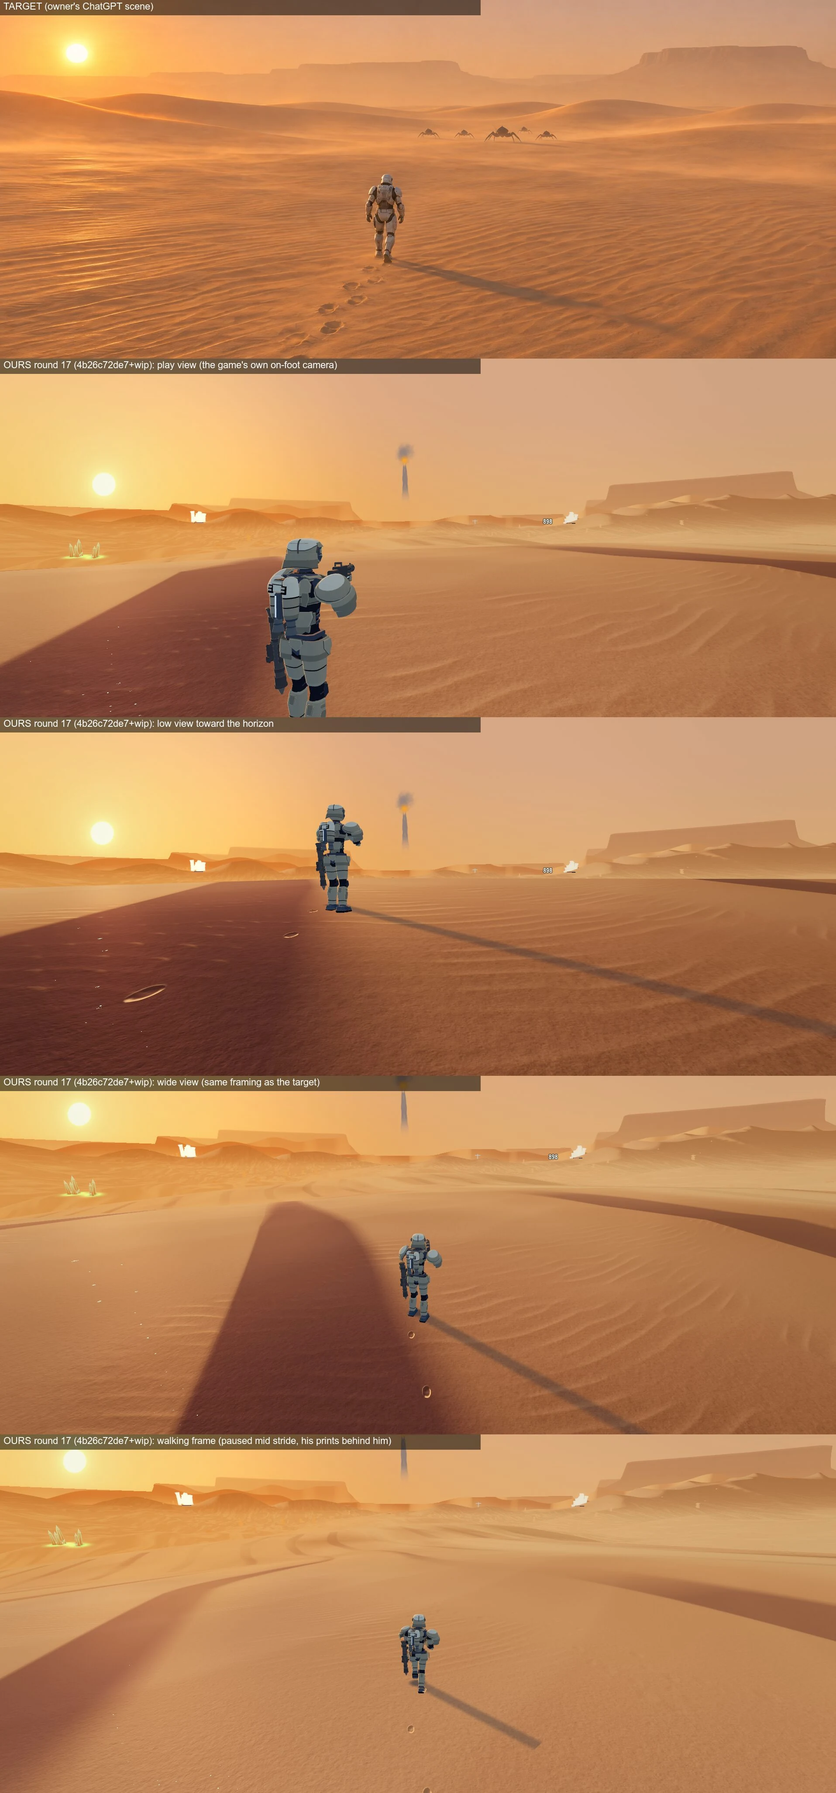
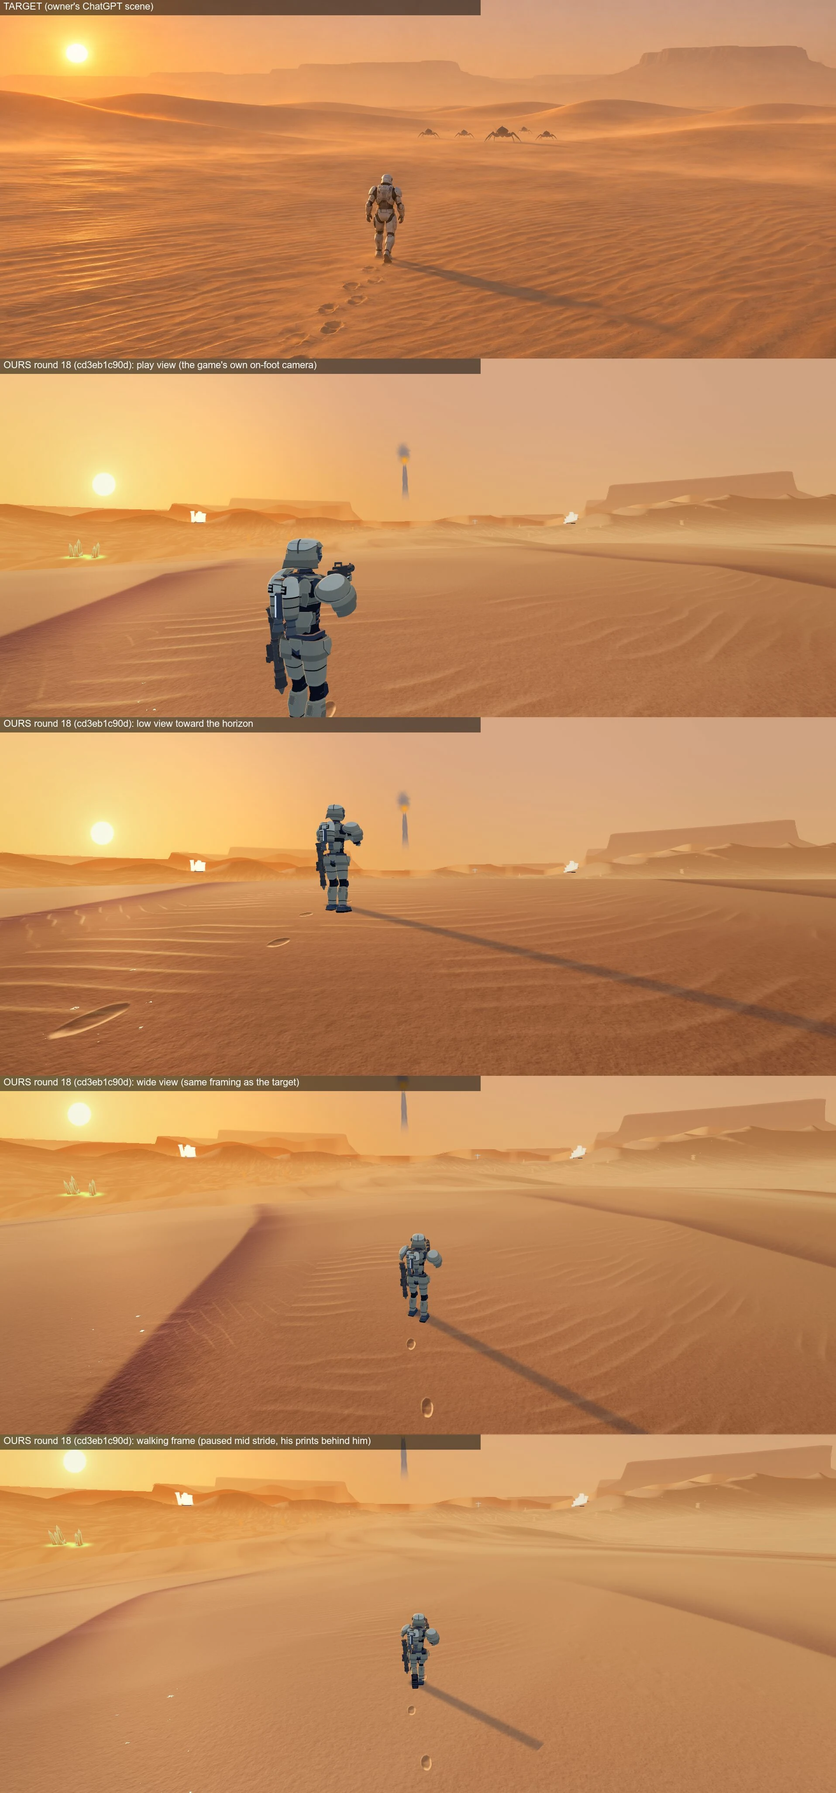
review page v194: Steel Tide: to review

diff --git a/d/steel-tide-clips-bb00109a/index.html b/d/steel-tide-clips-bb00109a/index.html
@@ -4,8 +4,8 @@
 <style>body{margin:0;background:#0d1117;color:#e6edf3;font:16px/1.5 -apple-system,system-ui,sans-serif}main{max-width:900px;margin:0 auto;padding:16px}h1{font-size:20px;margin:8px 0 4px}h2{font-size:17px;margin:34px 0 6px}p{margin:4px 0 10px;color:#9da7b3;font-size:14px}video,img{width:100%;height:auto;background:#000;border-radius:6px;display:block;margin-top:6px}a.b{display:inline-block;margin:8px 8px 0 0;padding:10px 14px;border:1px solid #3d444d;border-radius:6px;color:#e6edf3;text-decoration:none;font-size:14px}.t{font-size:12px;font-weight:400;color:#0d1117;background:#9da7b3;border-radius:10px;padding:2px 8px;margin-left:6px;vertical-align:middle}p.d{color:#7cb7ff;font-size:13px;margin:0 0 6px}nav small{color:#9da7b3;margin-left:6px}p b{color:#e6edf3}nav a{display:block;padding:7px 0;color:#7cb7ff;text-decoration:none;font-size:14px;border-bottom:1px solid #21262d}a.z{display:block;cursor:zoom-in}p.h{font-size:12px;margin:2px 0 8px}#lb{position:fixed;inset:0;background:#000;z-index:9;overflow:auto;display:none;cursor:zoom-in}#lb.on{display:block}#lb img{width:100%;height:100%;object-fit:contain;margin:0;border-radius:0;background:#000}#lb.big{cursor:zoom-out}#lb.big img{width:auto;height:auto;max-width:none;object-fit:none}#lbx{position:fixed;top:10px;right:14px;z-index:10;display:none;font:600 15px system-ui;color:#fff;background:#21262d;border:1px solid #3d444d;border-radius:6px;padding:8px 12px;cursor:pointer}#lb.on+#lbx{display:block}</style></head>
 <body><main>
 <h1>Steel Tide: to review</h1>
-<p>Version 193, 11-21 11:28 AM. 11-21 morning: everything rendered overnight that you had not seen: live sand, the sand work in progress, Petrel rounds 2 and 3, the hand cannons. Newest first. Total 84.9 MB.</p>
-<nav><a href="#petrel-wing-engine-redesign">Petrel: tiltwing + airstair (not in the game yet) <small>11-21 2:30 PM</small></a><a href="#desert-sand-r13-wip">Desert sand round 17 (not in the game yet) <small>11-21 11:28 AM</small></a><a href="#elevator-pilot-light">Station lift: the pilot goes dark with the ship (not in the game yet) <small>11-21 11:06 AM</small></a><a href="#petrel-airstair">Petrel: folding airstairs (not in the game yet) <small>11-21 10:44 AM</small></a><a href="#pilot-walk-sway">Pilot walk: half the side-to-side sway (before / after) <small>11-21 10:32 AM</small></a><a href="#unit-ground-shadows">Unit ground shadows back on (not live yet) <small>11-21 10:22 AM</small></a><a href="#extract-control-early">Extraction ending: control comes back as the hatch opens (not live yet) <small>11-21 10:10 AM</small></a><a href="#mech-hand-cannons">Mech hand cannons: OLD pull look (rejected), being replaced with the Singularity look <small>11-21 10:03 AM</small></a><a href="#desert-sand-live">Desert sand as it is live now (round 12), next to your target <small>11-21 9:53 AM</small></a><a href="#extraction-ending-elevator-up">Full extraction ending with the newest Petrel (live now) <small>11-21 9:50 AM</small></a><a href="#desert-sand-r11">Desert sand round 11: wavy ripple rows <small>11-21 9:37 AM</small></a><a href="#petrel-round3">Petrel ship: round 3, before and after (27 views) <small>11-21 9:37 AM</small></a><a href="#petrel-round2">Petrel ship: round 2, before and after <small>11-21 9:37 AM</small></a><a href="#leviathan-grabs-your-clone">Leviathan: a perfect dodge of the grab makes it bite your clone, then it is stunned <small>11-21 8:00 AM</small></a><a href="#pilot-base-hands">Pilot hands: same relaxed pose on both sides, new fingers <small>11-21 8:00 AM</small></a><a href="#pilot-tripo-attempt">Tripo pilot: new hands made by Tripo, attached to the same body <small>11-21 8:00 AM</small></a><a href="#pod-landing-m301">Drop pod landing (round 6, recorder fixed) <small>11-21 8:00 AM</small></a><a href="#hangar-pod-cradle">Hangar pod cradle: five locks, legs side by side, hatch closes as he lowers <small>11-21 8:00 AM</small></a><a href="#rocket-sentry-seated">Rocket sentry: the pilot sits in it, hands on the handle <small>11-21 8:00 AM</small></a><a href="#pod-landing-black-lines-removed">Pod landing: the huge black lines are removed <small>11-21 4:09 AM</small></a><a href="#dawn-time-of-day-preview">Dawn, a second time of day: for your yes or no (not in the game) <small>11-21 3:33 AM</small></a><a href="#hand-cannons-aoe-pull-blast">Heavy hand cannons: one hand pulls the pack in, the other fires two big slow blasts <small>11-21 3:20 AM</small></a><a href="#leviathan-reposition-no-slide">Leviathan: the body no longer slides when it turns <small>11-21 3:16 AM</small></a><a href="#hand-cannon-slice">Hand cannon combo, the proof slice (heavy blast, 1 second pull, F dive slam) <small>11-21 1:09 AM</small></a><a href="#weapon-icons-round-3">Weapon icons round 3: stylized from the real weapons, two directions <small>11-20 10:55 PM</small></a><a href="#desert-sand-direction">Desert sand: today against real sand (pick a direction) <small>11-20 10:51 PM</small></a><a href="#boss-shading-which-part">Your 8:00 PM report: which part of the boss looked wrong? <small>11-20 10:51 PM</small></a><a href="#pilot-ground-dash">Ground dash round 3: looser body, rifle holds its aim (clip, 8 directions) <small>11-20 10:41 PM</small></a><a href="#weapon-icons-pick">Weapon icons round 2: traced from the real gun models <small>11-20 5:36 PM</small></a><a href="#launch-sequence-live">Loading flight: side planets removed <small>11-20 5:26 PM</small></a><a href="#hangar-decompress">Hangar arrival: the mist clears right after you enter <small>11-20 5:01 PM</small></a><a href="#hangar-idle">Pilot idle in the hangar (round 2, looping) <small>11-20 5:01 PM</small></a><a href="#pilot-walk-run-m301">Pilot walk and run (export round 2) <small>11-20 5:01 PM</small></a><a href="#hangar-walk-run">Pilot walk and run in the hangar <small>11-20 5:01 PM</small></a><a href="#pod-boarding-no-clip">Hangar pod lowered, flat walk-in <small>11-20 5:01 PM</small></a><a href="#gravity-well-real-shots">Gravity well keeps each enemy shot&#x27;s own look <small>11-20 1:19 AM</small></a><a href="#pod-hatch-seals-first">Drop pod lowers only after the hatch is shut <small>11-20 1:19 AM</small></a><a href="#pilot-no-camera-lean">The pilot no longer leans when you tilt the camera <small>11-20 12:59 AM</small></a><a href="#ocean-ships-fewer">Ocean: 60 % fewer ships, wider spacing, hulks no longer overlap boats <small>11-20 12:59 AM</small></a><a href="#hangar-stairs-windows-vapor">Hangar: walkable stairs, space-only windows, leaking vapor <small>11-20 12:59 AM</small></a><a href="#drop-pod-no-hud">No HUD during the drop pod descent <small>11-20 12:59 AM</small></a><a href="#coop-join-as-pilot">Co-op: friends join as pilots beside you in the hangar <small>11-20 12:59 AM</small></a><a href="#new-mech-3d-r2">New mech: first 3D model from your sheet <small>11-19 11:21 PM</small></a><a href="#tactician-r2-s302-clean">Tactician pilot: your pick, smudges cleaned (ready to wire) <small>11-19 10:24 PM</small></a><a href="#vanguard-r2-s302">Vanguard pilot: your pick, six fingers fixed (ready to wire) <small>11-19 10:24 PM</small></a><a href="#engineer-ingame-first">Engineer pilot in the game (rough, live) <small>11-19 10:13 PM</small></a><a href="#cradle-jets-flames">Mothership engines on the launch flight <small>11-19 9:25 PM</small></a><a href="#mission-control-star-map">Mission Control star map with detailed planets <small>11-19 9:11 PM</small></a><a href="#island-kites-air">Island: Kites climb to a jetting pilot (and snipers aim ahead of him) <small>11-19 8:44 PM</small></a><a href="#petrel-seat-hold">Petrel: chest hold and real seats <small>11-19 4:25 PM</small></a><a href="#island-scuttle">Island enemy: Scuttle <small>11-19 3:40 PM</small></a><a href="#island-thresh">Island enemy: Thresh <small>11-19 3:40 PM</small></a><a href="#island-maul">Island enemy: Maul <small>11-19 3:40 PM</small></a><a href="#island-kite">Island enemy: Kite <small>11-19 3:40 PM</small></a><a href="#island-haul">Island enemy: Haul <small>11-19 3:40 PM</small></a><a href="#island-coil">Island enemy: Coil <small>11-19 3:40 PM</small></a><a href="#island-bloom">Island enemy: Bloom <small>11-19 3:40 PM</small></a><a href="#island-lagoon-sniper">Island enemy: Lagoon Sniper <small>11-19 3:40 PM</small></a><a href="#island-lagoon-lobber">Island enemy: Lagoon Lobber <small>11-19 3:40 PM</small></a><a href="#island-heave">Island enemy: Heave <small>11-19 3:40 PM</small></a><a href="#island-roost">Island enemy: Roost (the Widow) <small>11-19 3:40 PM</small></a><a href="#island-noose">Island enemy: Noose <small>11-19 3:40 PM</small></a><a href="#island-brine">Island enemy: Brine <small>11-19 3:40 PM</small></a><a href="#island-rift">Island enemy: Rift <small>11-19 3:40 PM</small></a><a href="#island-quill">Island enemy: Quill <small>11-19 3:40 PM</small></a><a href="#island-drum">Island enemy: Drum <small>11-19 3:40 PM</small></a><a href="#island-tusk">Island enemy: Tusk <small>11-19 3:40 PM</small></a><a href="#hangar-jets-every-press">Hangar jets on every Space tap and Shift dash <small>11-19 3:30 PM</small></a><a href="#pistol-holster">Pistol stays in its holster until you aim <small>11-19 3:00 PM</small></a><a href="#loading-no-counts">Loading screen shows only the step and the bar <small>11-19 2:30 PM</small></a><a href="#hangar-globe-fix">Hangar globe turns on its own, with the target marks removed <small>11-19 1:50 PM</small></a><a href="#petrel-seat-facing">Petrel: the seated pilot faces the way his seat faces <small>11-19 1:20 PM</small></a><a href="#mission-control-planets">Mission Control: pick a planet first, then start <small>11-19 12:07 PM</small></a><a href="#hangar-station-screens">Hangar station screens <small>11-19 12:07 PM</small></a><a href="#pilot-drop-pod-boarding">Pilot climbs into the drop pod <small>11-19 10:40 AM</small></a><a href="#hangar-laser-tag">Hangar laser tag <small>11-19 1:22 AM</small></a><a href="#mission-control-prop">Mission Control: the holo globe table <small>11-19 1:05 AM</small></a><a href="#hangar-drop-pod-marker">Drop pod marker in the hangar <small>11-19 12:50 AM</small></a><a href="#hangar-real-in-game">The real hangar, walked in the game <small>11-18 9:30 PM</small></a><a href="#cradle-drop-launch-r4">NEEDS YOUR PICK: the drop cannon&#x27;s size on the Cradle (three sizes), with its back hidden and navy colour <small>11-18 7:43 PM</small></a><a href="#stage4-terrain-and-base">Stage 4, the new-planet loop: parts built, not playable yet <small>11-18 7:29 PM</small></a><a href="#ocean-titan-bar-below">NEEDS YOUR EYE: Ocean Titan now uses the Strider&#x27;s camera (low, behind, horizon in view) <small>11-18 6:46 PM</small></a><a href="#titan-hud-unify">One lock ring, one Titan armor bar, cooldown icons instead of status text (first pass) <small>11-18 6:41 PM</small></a><a href="#cradle-hull-r4">The Cradle mothership, round 4: cannon moved under the stern, darker landing pad <small>11-18 5:15 PM</small></a><a href="#island-fliers-low">Red fliers over the island: fewer, and they creep instead of parking <small>11-18 12:30 AM</small></a><a href="#horde-pilot-zoom">NEEDS YOUR CALL: island Horde, camera zooms in when you are on foot <small>11-17 1:30 PM</small></a></nav>
+<p>Version 194, 11-21 11:53 AM. 11-21 morning: everything rendered overnight that you had not seen: live sand, the sand work in progress, Petrel rounds 2 and 3, the hand cannons. Newest first. Total 84.3 MB.</p>
+<nav><a href="#petrel-wing-engine-redesign">Petrel: tiltwing + airstair (not in the game yet) <small>11-21 2:30 PM</small></a><a href="#desert-sand-r13-wip">Desert sand round 18 (not in the game yet) <small>11-21 11:53 AM</small></a><a href="#elevator-pilot-light">Station lift: the pilot goes dark with the ship (not in the game yet) <small>11-21 11:06 AM</small></a><a href="#petrel-airstair">Petrel: folding airstairs (not in the game yet) <small>11-21 10:44 AM</small></a><a href="#pilot-walk-sway">Pilot walk: half the side-to-side sway (before / after) <small>11-21 10:32 AM</small></a><a href="#unit-ground-shadows">Unit ground shadows back on (not live yet) <small>11-21 10:22 AM</small></a><a href="#extract-control-early">Extraction ending: control comes back as the hatch opens (not live yet) <small>11-21 10:10 AM</small></a><a href="#mech-hand-cannons">Mech hand cannons: OLD pull look (rejected), being replaced with the Singularity look <small>11-21 10:03 AM</small></a><a href="#desert-sand-live">Desert sand as it is live now (round 12), next to your target <small>11-21 9:53 AM</small></a><a href="#extraction-ending-elevator-up">Full extraction ending with the newest Petrel (live now) <small>11-21 9:50 AM</small></a><a href="#desert-sand-r11">Desert sand round 11: wavy ripple rows <small>11-21 9:37 AM</small></a><a href="#petrel-round3">Petrel ship: round 3, before and after (27 views) <small>11-21 9:37 AM</small></a><a href="#petrel-round2">Petrel ship: round 2, before and after <small>11-21 9:37 AM</small></a><a href="#leviathan-grabs-your-clone">Leviathan: a perfect dodge of the grab makes it bite your clone, then it is stunned <small>11-21 8:00 AM</small></a><a href="#pilot-base-hands">Pilot hands: same relaxed pose on both sides, new fingers <small>11-21 8:00 AM</small></a><a href="#pilot-tripo-attempt">Tripo pilot: new hands made by Tripo, attached to the same body <small>11-21 8:00 AM</small></a><a href="#pod-landing-m301">Drop pod landing (round 6, recorder fixed) <small>11-21 8:00 AM</small></a><a href="#hangar-pod-cradle">Hangar pod cradle: five locks, legs side by side, hatch closes as he lowers <small>11-21 8:00 AM</small></a><a href="#rocket-sentry-seated">Rocket sentry: the pilot sits in it, hands on the handle <small>11-21 8:00 AM</small></a><a href="#pod-landing-black-lines-removed">Pod landing: the huge black lines are removed <small>11-21 4:09 AM</small></a><a href="#dawn-time-of-day-preview">Dawn, a second time of day: for your yes or no (not in the game) <small>11-21 3:33 AM</small></a><a href="#hand-cannons-aoe-pull-blast">Heavy hand cannons: one hand pulls the pack in, the other fires two big slow blasts <small>11-21 3:20 AM</small></a><a href="#leviathan-reposition-no-slide">Leviathan: the body no longer slides when it turns <small>11-21 3:16 AM</small></a><a href="#hand-cannon-slice">Hand cannon combo, the proof slice (heavy blast, 1 second pull, F dive slam) <small>11-21 1:09 AM</small></a><a href="#weapon-icons-round-3">Weapon icons round 3: stylized from the real weapons, two directions <small>11-20 10:55 PM</small></a><a href="#desert-sand-direction">Desert sand: today against real sand (pick a direction) <small>11-20 10:51 PM</small></a><a href="#boss-shading-which-part">Your 8:00 PM report: which part of the boss looked wrong? <small>11-20 10:51 PM</small></a><a href="#pilot-ground-dash">Ground dash round 3: looser body, rifle holds its aim (clip, 8 directions) <small>11-20 10:41 PM</small></a><a href="#weapon-icons-pick">Weapon icons round 2: traced from the real gun models <small>11-20 5:36 PM</small></a><a href="#launch-sequence-live">Loading flight: side planets removed <small>11-20 5:26 PM</small></a><a href="#hangar-decompress">Hangar arrival: the mist clears right after you enter <small>11-20 5:01 PM</small></a><a href="#hangar-idle">Pilot idle in the hangar (round 2, looping) <small>11-20 5:01 PM</small></a><a href="#pilot-walk-run-m301">Pilot walk and run (export round 2) <small>11-20 5:01 PM</small></a><a href="#hangar-walk-run">Pilot walk and run in the hangar <small>11-20 5:01 PM</small></a><a href="#pod-boarding-no-clip">Hangar pod lowered, flat walk-in <small>11-20 5:01 PM</small></a><a href="#gravity-well-real-shots">Gravity well keeps each enemy shot&#x27;s own look <small>11-20 1:19 AM</small></a><a href="#pod-hatch-seals-first">Drop pod lowers only after the hatch is shut <small>11-20 1:19 AM</small></a><a href="#pilot-no-camera-lean">The pilot no longer leans when you tilt the camera <small>11-20 12:59 AM</small></a><a href="#ocean-ships-fewer">Ocean: 60 % fewer ships, wider spacing, hulks no longer overlap boats <small>11-20 12:59 AM</small></a><a href="#hangar-stairs-windows-vapor">Hangar: walkable stairs, space-only windows, leaking vapor <small>11-20 12:59 AM</small></a><a href="#drop-pod-no-hud">No HUD during the drop pod descent <small>11-20 12:59 AM</small></a><a href="#coop-join-as-pilot">Co-op: friends join as pilots beside you in the hangar <small>11-20 12:59 AM</small></a><a href="#new-mech-3d-r2">New mech: first 3D model from your sheet <small>11-19 11:21 PM</small></a><a href="#tactician-r2-s302-clean">Tactician pilot: your pick, smudges cleaned (ready to wire) <small>11-19 10:24 PM</small></a><a href="#vanguard-r2-s302">Vanguard pilot: your pick, six fingers fixed (ready to wire) <small>11-19 10:24 PM</small></a><a href="#engineer-ingame-first">Engineer pilot in the game (rough, live) <small>11-19 10:13 PM</small></a><a href="#cradle-jets-flames">Mothership engines on the launch flight <small>11-19 9:25 PM</small></a><a href="#mission-control-star-map">Mission Control star map with detailed planets <small>11-19 9:11 PM</small></a><a href="#island-kites-air">Island: Kites climb to a jetting pilot (and snipers aim ahead of him) <small>11-19 8:44 PM</small></a><a href="#petrel-seat-hold">Petrel: chest hold and real seats <small>11-19 4:25 PM</small></a><a href="#island-scuttle">Island enemy: Scuttle <small>11-19 3:40 PM</small></a><a href="#island-thresh">Island enemy: Thresh <small>11-19 3:40 PM</small></a><a href="#island-maul">Island enemy: Maul <small>11-19 3:40 PM</small></a><a href="#island-kite">Island enemy: Kite <small>11-19 3:40 PM</small></a><a href="#island-haul">Island enemy: Haul <small>11-19 3:40 PM</small></a><a href="#island-coil">Island enemy: Coil <small>11-19 3:40 PM</small></a><a href="#island-bloom">Island enemy: Bloom <small>11-19 3:40 PM</small></a><a href="#island-lagoon-sniper">Island enemy: Lagoon Sniper <small>11-19 3:40 PM</small></a><a href="#island-lagoon-lobber">Island enemy: Lagoon Lobber <small>11-19 3:40 PM</small></a><a href="#island-heave">Island enemy: Heave <small>11-19 3:40 PM</small></a><a href="#island-roost">Island enemy: Roost (the Widow) <small>11-19 3:40 PM</small></a><a href="#island-noose">Island enemy: Noose <small>11-19 3:40 PM</small></a><a href="#island-brine">Island enemy: Brine <small>11-19 3:40 PM</small></a><a href="#island-rift">Island enemy: Rift <small>11-19 3:40 PM</small></a><a href="#island-quill">Island enemy: Quill <small>11-19 3:40 PM</small></a><a href="#island-drum">Island enemy: Drum <small>11-19 3:40 PM</small></a><a href="#island-tusk">Island enemy: Tusk <small>11-19 3:40 PM</small></a><a href="#hangar-jets-every-press">Hangar jets on every Space tap and Shift dash <small>11-19 3:30 PM</small></a><a href="#pistol-holster">Pistol stays in its holster until you aim <small>11-19 3:00 PM</small></a><a href="#loading-no-counts">Loading screen shows only the step and the bar <small>11-19 2:30 PM</small></a><a href="#hangar-globe-fix">Hangar globe turns on its own, with the target marks removed <small>11-19 1:50 PM</small></a><a href="#petrel-seat-facing">Petrel: the seated pilot faces the way his seat faces <small>11-19 1:20 PM</small></a><a href="#mission-control-planets">Mission Control: pick a planet first, then start <small>11-19 12:07 PM</small></a><a href="#hangar-station-screens">Hangar station screens <small>11-19 12:07 PM</small></a><a href="#pilot-drop-pod-boarding">Pilot climbs into the drop pod <small>11-19 10:40 AM</small></a><a href="#hangar-laser-tag">Hangar laser tag <small>11-19 1:22 AM</small></a><a href="#mission-control-prop">Mission Control: the holo globe table <small>11-19 1:05 AM</small></a><a href="#hangar-drop-pod-marker">Drop pod marker in the hangar <small>11-19 12:50 AM</small></a><a href="#hangar-real-in-game">The real hangar, walked in the game <small>11-18 9:30 PM</small></a><a href="#cradle-drop-launch-r4">NEEDS YOUR PICK: the drop cannon&#x27;s size on the Cradle (three sizes), with its back hidden and navy colour <small>11-18 7:43 PM</small></a><a href="#stage4-terrain-and-base">Stage 4, the new-planet loop: parts built, not playable yet <small>11-18 7:29 PM</small></a><a href="#ocean-titan-bar-below">NEEDS YOUR EYE: Ocean Titan now uses the Strider&#x27;s camera (low, behind, horizon in view) <small>11-18 6:46 PM</small></a><a href="#titan-hud-unify">One lock ring, one Titan armor bar, cooldown icons instead of status text (first pass) <small>11-18 6:41 PM</small></a><a href="#cradle-hull-r4">The Cradle mothership, round 4: cannon moved under the stern, darker landing pad <small>11-18 5:15 PM</small></a><a href="#island-fliers-low">Red fliers over the island: fewer, and they creep instead of parking <small>11-18 12:30 AM</small></a><a href="#horde-pilot-zoom">NEEDS YOUR CALL: island Horde, camera zooms in when you are on foot <small>11-17 1:30 PM</small></a></nav>
 <section id="petrel-wing-engine-redesign"><h2>Petrel: tiltwing + airstair (not in the game yet) <span class="t">built, not live</span></h2>
 <p class="d">Updated 11-21 2:30 PM ET &middot; captured from lane build f3a298441a (tiltwing + airstair merged) vs Dock d7deeea3bf</p>
 <p><b>What changed:</b> Now in the real game cameras, with the new airstair merged in: wing and jet tilt as one unit, upright when landed and in the hangar, flat in flight; the stairs clear the jets at every tilt.</p>
@@ -15,12 +15,11 @@
 <video controls playsinline muted preload="none" poster="petrel-wing-engine-redesign-1.webp" data-fb="petrel-wing-engine-redesign"><source src="petrel-wing-engine-redesign.mp4" type="video/mp4"></video>
 <div class="fb" data-id="petrel-wing-engine-redesign" data-title="Petrel: tiltwing + airstair (not in the game yet)"><p class="h">Pause the video at any moment to write a note for that second.</p><div class="fbbox" hidden><b class="fbt"></b><textarea rows="3" placeholder="Your feedback at this moment"></textarea><button class="fbsave">Save and keep playing</button><button class="fbcancel">Cancel</button></div><ol class="fblist"></ol><button class="fbexp">Export feedback</button><div class="fbout" hidden><textarea rows="8" readonly></textarea><button class="fbcopy">Copy</button><span class="fbok"></span></div></div>
 <a class="b" href="petrel-wing-engine-redesign.mp4">Open the video on its own (1.7 MB)</a></section>
-<section id="desert-sand-r13-wip"><h2>Desert sand round 17 (not in the game yet) <span class="t">built, not live</span></h2>
-<p class="d">Updated 11-21 11:28 AM ET &middot; captured from lane build GROUND-SAND-R16-1121</p>
-<p><b>What changed:</b> Dunes are closer together, so near the pilot you now see several lit and shaded dune sides instead of a flat plain. Blowing dust starts closer to the ground, footprints are longer with a brighter far edge, and the sun glints on the grains are brighter.</p>
-<p><b>Where to look:</b> Play, low and wide views: the shaded dune sides next to the pilot (still too dark and flat inside, next round softens them); the top picture is your target.</p>
-<a class="z" href="desert-sand-r13-wip-1-full.webp"><img loading="lazy" src="desert-sand-r13-wip-1.webp" alt="Desert sand round 17 (not in the game yet)"></a><p class="h">Click the image for full screen, click again for full size.</p>
-<a class="z" href="desert-sand-r13-wip-2-full.webp"><img loading="lazy" src="desert-sand-r13-wip-2.webp" alt="Desert sand round 17 (not in the game yet)"></a><p class="h">Click the image for full screen, click again for full size.</p></section>
+<section id="desert-sand-r13-wip"><h2>Desert sand round 18 (not in the game yet) <span class="t">built, not live</span></h2>
+<p class="d">Updated 11-21 11:53 AM ET &middot; captured from lane build GROUND-SAND-R18-1121</p>
+<p><b>What changed:</b> The shaded side of each dune no longer looks like a flat dark shadow: it is darkest just under the crest and fades out toward the bottom of the slope, picks up a little cool sky light, and the ripples still show inside it. Crest lines wander instead of running ruler straight. Sun glints are a little larger so they survive a scaled-down screen, and only show on sunlit sand. Footprints are larger.</p>
+<p><b>Where to look:</b> Play and wide views: the shaded dune sides next to the pilot; the top picture is your target.</p>
+<a class="z" href="desert-sand-r13-wip-1-full.webp"><img loading="lazy" src="desert-sand-r13-wip-1.webp" alt="Desert sand round 18 (not in the game yet)"></a><p class="h">Click the image for full screen, click again for full size.</p></section>
 <section id="elevator-pilot-light"><h2>Station lift: the pilot goes dark with the ship (not in the game yet) <span class="t">built, not live</span></h2>
 <p class="d">Updated 11-21 11:06 AM ET &middot; captured from lane build ELEVATOR-PILOT-LIGHT-1121 on Dock (BEFORE = Dock, same shot, same camera)</p>
 <p><b>What changed:</b> In the lift shaft the pilot was fully lit alone in the black; he now takes the same shaft darkening as the ship and the room, for you and co-op pilots.</p>
